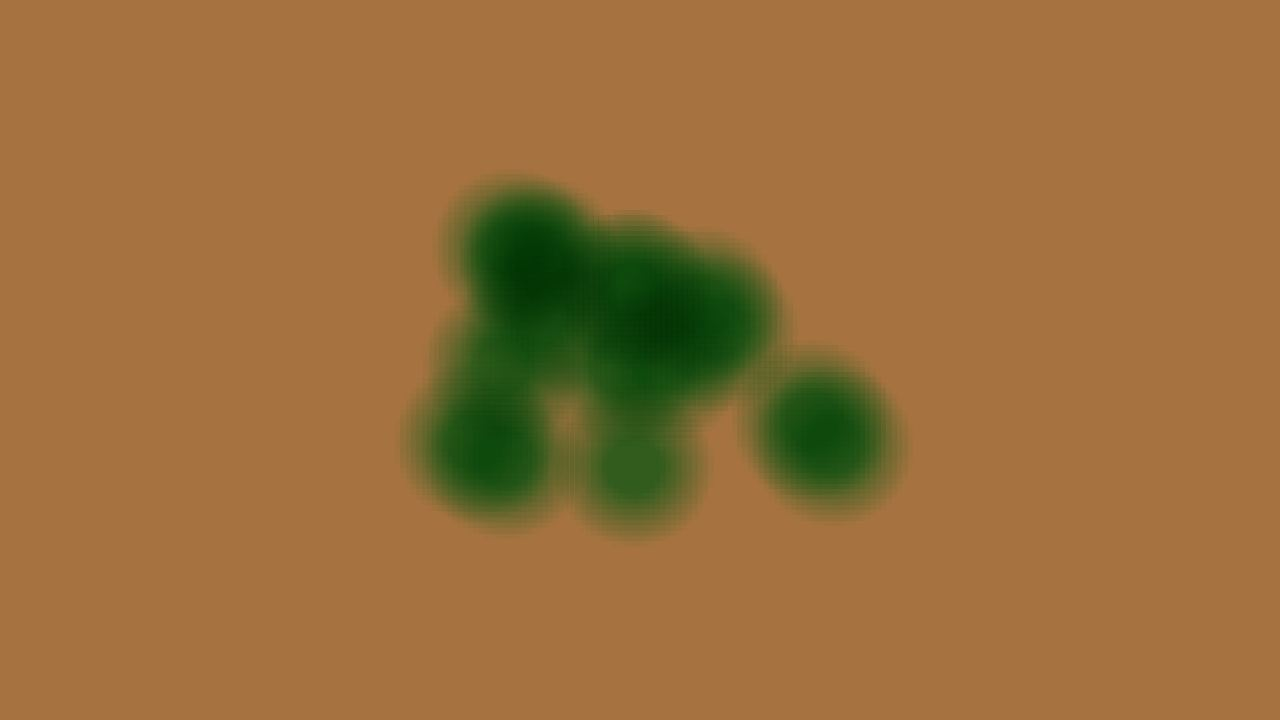
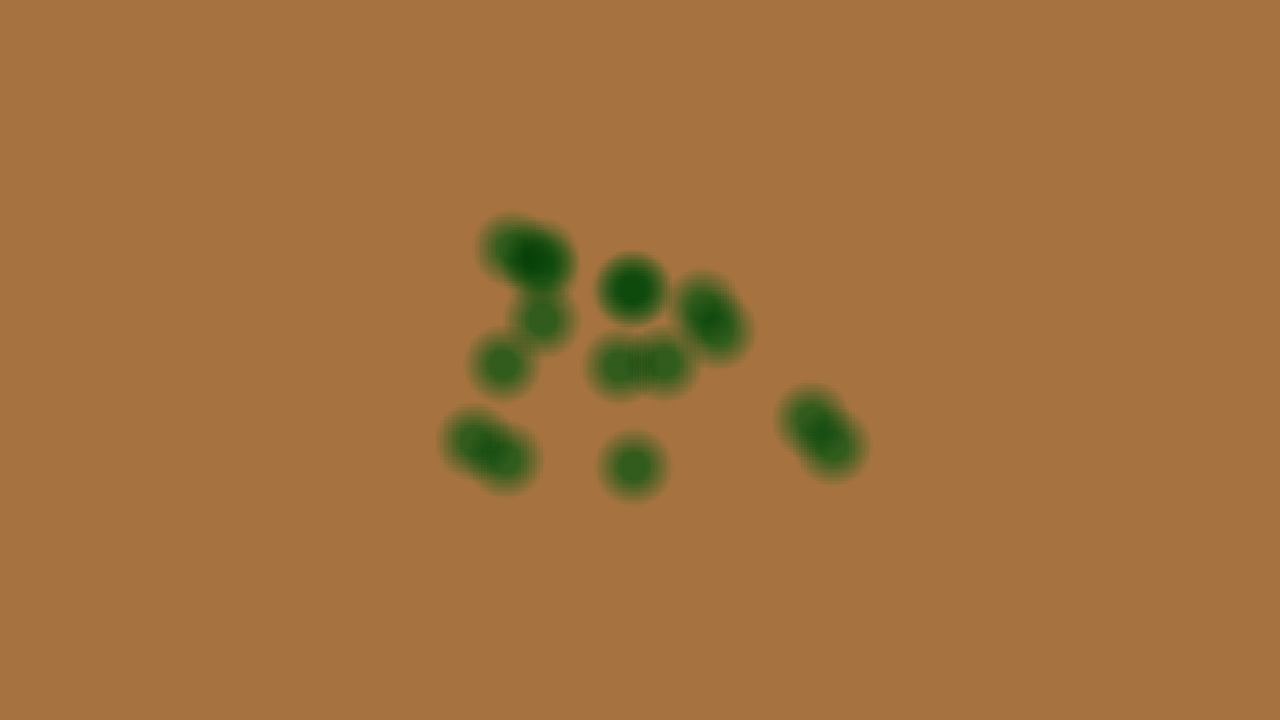
test(particle): stabilize multiply parity framing

Changed region(s): [[0.3125, 0.2444, 0.7188, 0.7639]]

diff --git a/lab/lite/src/shared/scene283-npe-multiply-blend.ts b/lab/lite/src/shared/scene283-npe-multiply-blend.ts
@@ -17,6 +17,7 @@ interface MutableBlock {
 }
 
 export const SCENE283_CLEAR_COLOR = [0.65, 0.45, 0.25, 1] as const;
+export const SCENE283_CAMERA_RADIUS = 8;
 export const SCENE283_STEPS = 40;
 export const SCENE283_TEXTURE_SIZE = 32;
 
@@ -65,8 +66,10 @@ export function createScene283NpeJson(options: Scene283NpeOptions = {}): unknown
     setBlockValue(graph.blocks, "Max size", 0.8);
     setBlockValue(graph.blocks, "Direction 1", live ? [0, 0.6, 0] : [0, 0, 0]);
     setBlockValue(graph.blocks, "Direction 2", live ? [0, 0.6, 0] : [0, 0, 0]);
-    setBlockValue(graph.blocks, "Min Emit Box", [-1, -0.55, 0]);
-    setBlockValue(graph.blocks, "Max Emit Box", [1, 0.55, 0]);
+    // Match the original screen-space field while halving each sprite's projected size. This keeps
+    // overlapping Multiply passes from amplifying cross-GPU blend rounding in the parity oracle.
+    setBlockValue(graph.blocks, "Min Emit Box", [-2, -1.1, 0]);
+    setBlockValue(graph.blocks, "Max Emit Box", [2, 1.1, 0]);
     setBlockValue(graph.blocks, "Min Scale", [1, 1]);
     setBlockValue(graph.blocks, "Max Scale", [1, 1]);
     setBlockValue(graph.blocks, "Color 1", [0.3, 0.8, 0.45, 1]);

diff --git a/lab/lite/src/lite/scene283.ts b/lab/lite/src/lite/scene283.ts
@@ -19,6 +19,7 @@ import {
 import {
     buildScene283TexturePixels,
     createScene283NpeJson,
+    SCENE283_CAMERA_RADIUS,
     SCENE283_CLEAR_COLOR,
     SCENE283_STEPS,
     SCENE283_TEXTURE_SIZE,
@@ -31,7 +32,7 @@ async function main(): Promise<void> {
     const scene = createSceneContext(engine);
     scene.clearColor = { r: SCENE283_CLEAR_COLOR[0], g: SCENE283_CLEAR_COLOR[1], b: SCENE283_CLEAR_COLOR[2], a: SCENE283_CLEAR_COLOR[3] };
 
-    const camera = createArcRotateCamera(-Math.PI / 2, Math.PI / 2, 4, { x: 0, y: 0, z: 0 });
+    const camera = createArcRotateCamera(-Math.PI / 2, Math.PI / 2, SCENE283_CAMERA_RADIUS, { x: 0, y: 0, z: 0 });
     camera.nearPlane = 0.1;
     camera.farPlane = 100;
     scene.camera = camera;

diff --git a/lab/lite/src/bjs/scene283.ts b/lab/lite/src/bjs/scene283.ts
@@ -15,6 +15,7 @@ import "@babylonjs/core/Shaders/particles.fragment";
 import {
     buildScene283TexturePixels,
     createScene283NpeJson,
+    SCENE283_CAMERA_RADIUS,
     SCENE283_CLEAR_COLOR,
     SCENE283_STEPS,
     SCENE283_TEXTURE_SIZE,
@@ -30,7 +31,7 @@ import {
     const scene = new Scene(engine);
     scene.clearColor = new Color4(...SCENE283_CLEAR_COLOR);
 
-    const camera = new ArcRotateCamera("camera", -Math.PI / 2, Math.PI / 2, 4, Vector3.Zero(), scene);
+    const camera = new ArcRotateCamera("camera", -Math.PI / 2, Math.PI / 2, SCENE283_CAMERA_RADIUS, Vector3.Zero(), scene);
     camera.minZ = 0.1;
     camera.maxZ = 100;
 

diff --git a/docs/lite/architecture/42-node-particle.md b/docs/lite/architecture/42-node-particle.md
@@ -1266,7 +1266,7 @@ All eight Lite scenes seed after build, synchronize one billboard, and register 
 | 277 `scene277-npe-attractor`      | UpdateAttractor after position integration, attractor `(0,2,0)`, strength `8` | alpha `-pi/2`, beta `1.2`, radius `5`, target `(0,0.8,0)`  | `0.01`      | `45.0 KB`   |
 | 280 `scene280-npe-flow-map`       | UpdateFlowMap after integration, flipped repel map, strength `15`, size `0.6` | alpha `pi/2`, beta `pi/2`, radius `9`, target `(-5,0,0)`   | `0.01`      | `45.0 KB`   |
 | 281 `scene281-npe-noise-texture`  | UpdateNoise after integration, cached 8x8 noise, strength `(1.5,0.5,1.5)`     | alpha `-pi/2`, beta `1.2`, radius `11`, target `(0,1,0)`   | `0.01`      | `45.0 KB`   |
-| 283 `scene283-npe-multiply-blend` | Multiply blend with procedural radial alpha over a warm destination           | alpha `-pi/2`, beta `pi/2`, radius `4`, target origin      | `0.01`      | `45.0 KB`   |
+| 283 `scene283-npe-multiply-blend` | Multiply blend with procedural radial alpha over a warm destination           | alpha `-pi/2`, beta `pi/2`, radius `8`, target origin      | `0.01`      | `45.0 KB`   |
 
 Each camera uses near plane `0.1` and far plane `100`. Each scene sets both `canvas.dataset.animationFrozen` and `canvas.dataset.ready` to `"true"` after engine start.
 
@@ -1299,12 +1299,12 @@ Scene 283 (`scene283-npe-multiply-blend`) is the dedicated Babylon.js/Lite oracl
 
 - `SystemBlock.blendMode = 3`, capacity `64`, update speed `0.05`, and emit rate `8`.
 - Emit power and direction are zero, so particles remain at their creation positions.
-- The emit box is `[-1, -0.55, 0]` to `[1, 0.55, 0]`.
+- The emit box is `[-2, -1.1, 0]` to `[2, 1.1, 0]`. Paired with the doubled camera radius, this preserves the field's screen-space extent while halving each sprite's projected size and reducing overlapping Multiply passes.
 - Lifetime is fixed at `10`, size is fixed at `0.8`, and creation/dead color is fixed at `[0.3, 0.8, 0.45, 1]`.
 - Both engines create the same 32 by 32 nearest-filtered procedural RGBA texture. RGB is white; alpha has a fully opaque radial core, fades through deterministic 8-bit values, and is zero at the outer texels. This exercises the Multiply fragment's interpolation toward white from texture alpha without network or decoder differences.
 - The clear color is `[0.65, 0.45, 0.25, 1]`. Fully transparent flare texels must leave this destination unchanged, while covered texels must darken and tint it. An additive fallback therefore produces an obvious full-image difference.
 - Both engines install the deterministic sine-based random generator, start the system, and execute exactly 40 ratio-1 simulation steps. This creates 16 stationary particles. Lite builds the set through `buildNodeParticleSetWithBlendModes`, synchronizes once, and registers the facing billboard through `addFacingBillboardSystemWithParticleBlend`; Babylon.js then sets `updateSpeed = 0`.
-- The camera uses alpha `-pi/2`, beta `pi/2`, radius `4`, target origin, near plane `0.1`, and far plane `100`.
+- The camera uses alpha `-pi/2`, beta `pi/2`, radius `8`, target origin, near plane `0.1`, and far plane `100`.
 
 The parity specification refreshes `reference/lite/scene283-npe-multiply-blend/babylon-ref-golden.png` from the Babylon.js WebGPU reference page, captures the frozen Lite canvas, and requires full-image `MAD <= 0.01`. The bundle scene must fetch the optional particle Multiply renderable and stay within its scene-configured raw-byte ceiling.
 
